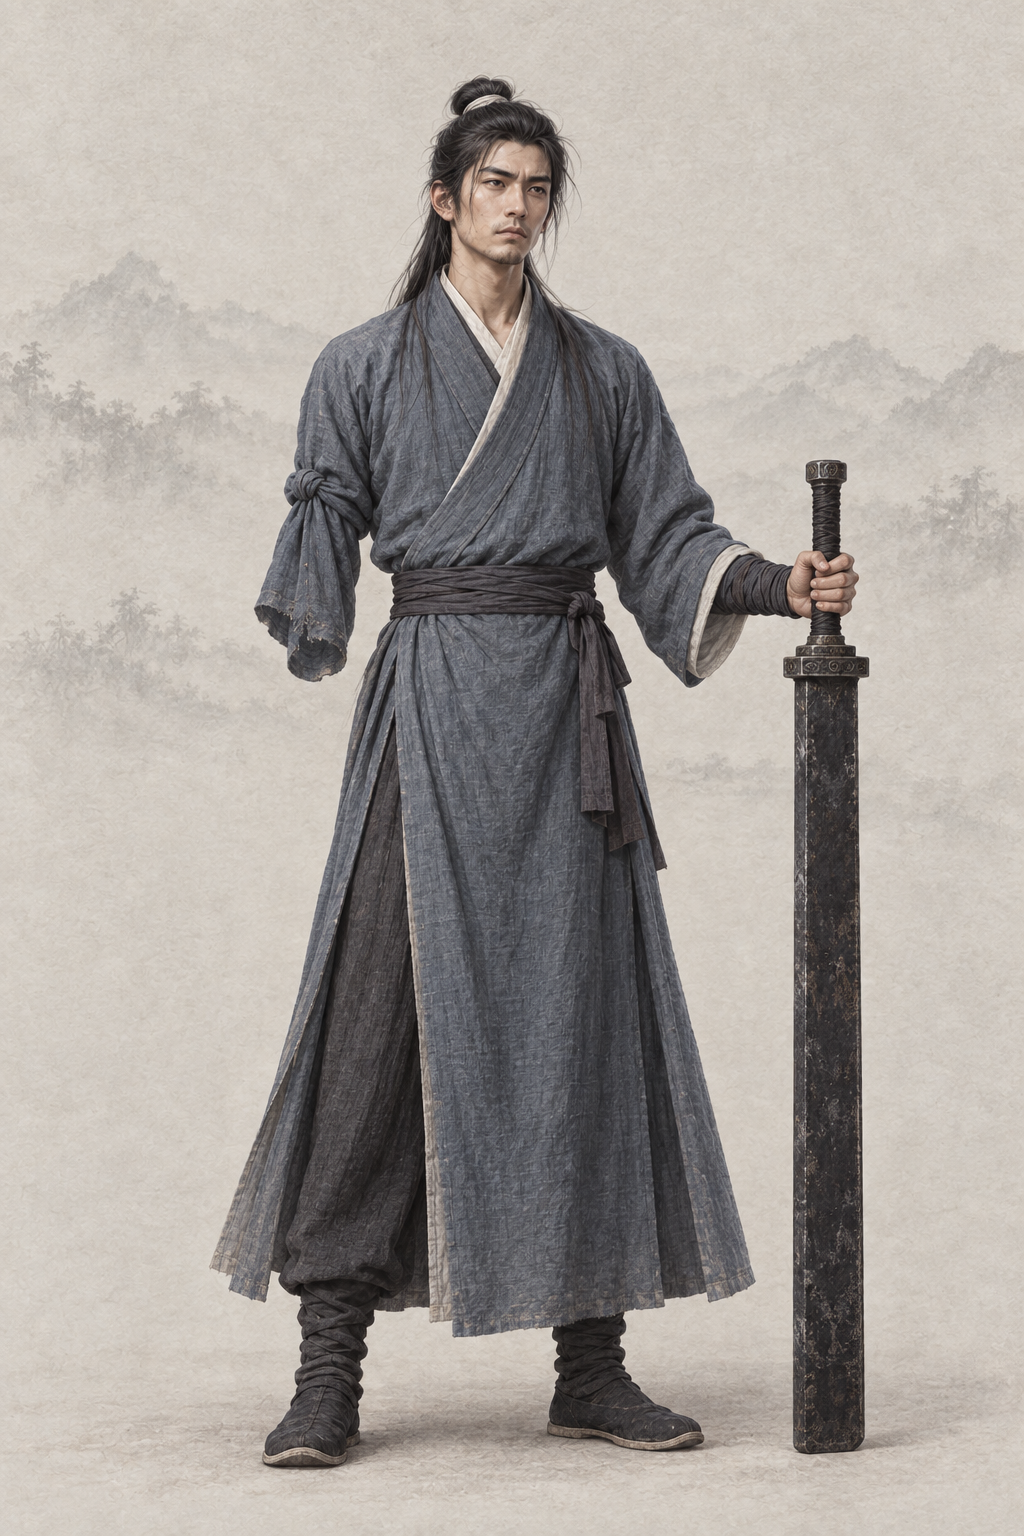
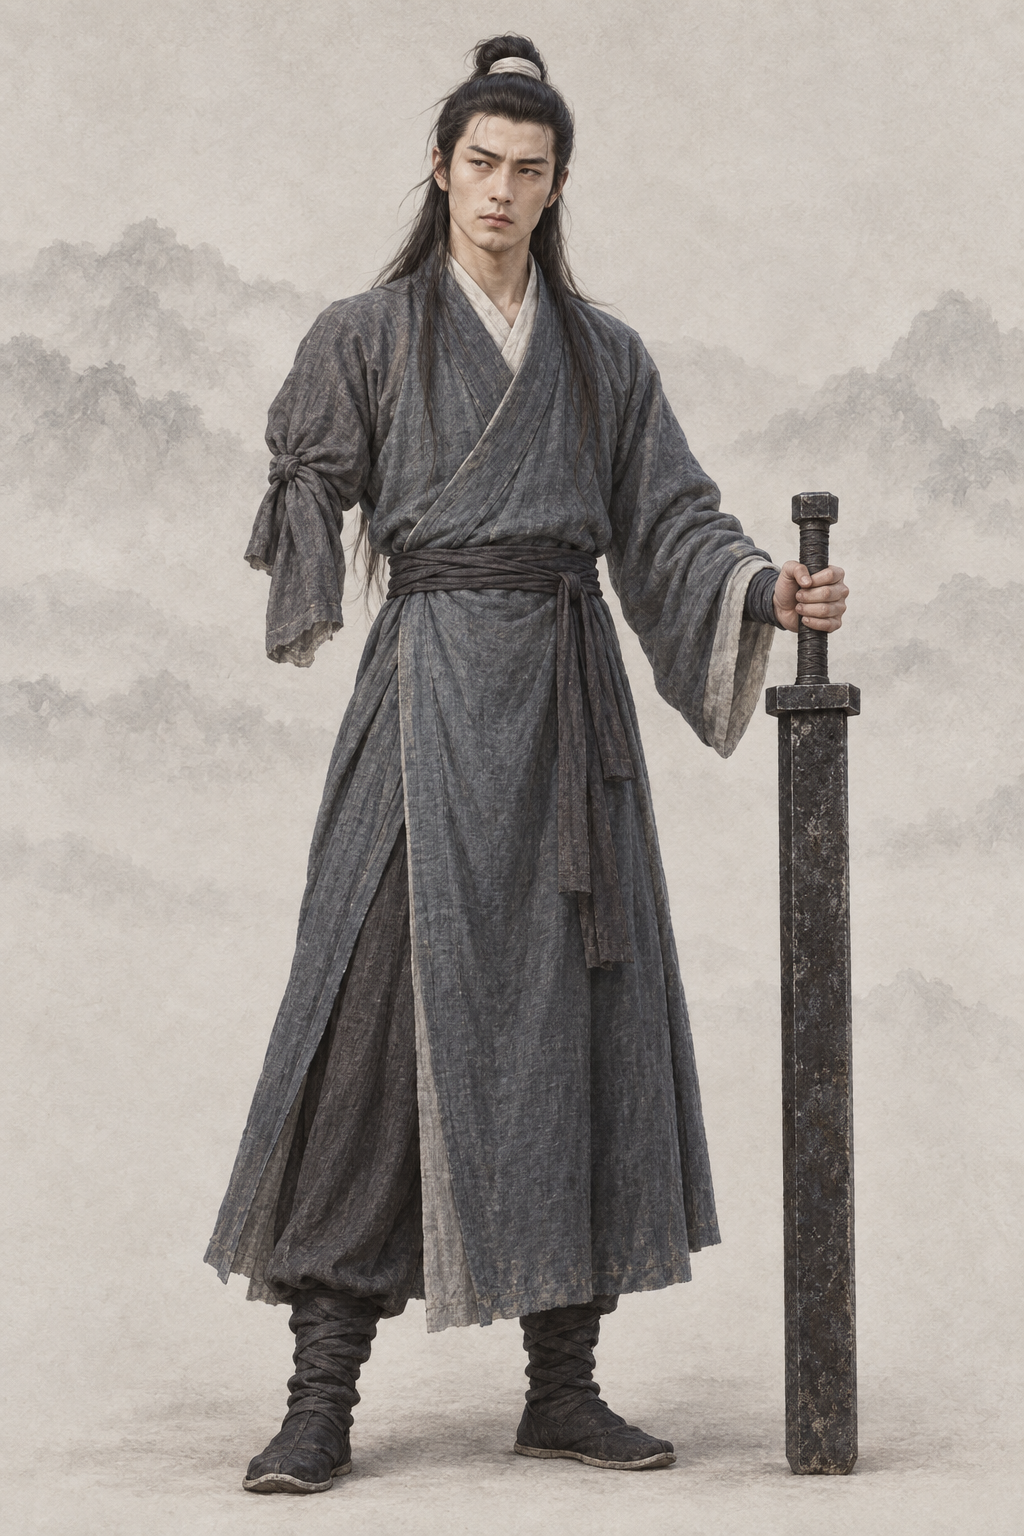
assets(character): por_npc_yangguo__ch03_youth_onearm_base 杨过（codex · AR-32 经典剧照 + 基线）
参考 1995 TVB《神雕侠侣》 剧照（yangguo_1995_caption_verified.jpg）与两张同性别基线重出；提示词写回、frontmatter 加 classic_ref。

diff --git a/assets/default/prompts/characters/ch03-shendiao/npc_yangguo.md b/assets/default/prompts/characters/ch03-shendiao/npc_yangguo.md
@@ -19,13 +19,39 @@ status: redo
 realism_revision: user_identity_pose_20261001
 redo_reason: "面容近乎复刻 1995 版演员（肖像风险），按原著“剑眉入鬓、凤眼生威、清癯俊秀、断右臂、玄铁重剑”用文字原创重做，连同五幅场景"
 reference_upload:
+- .agents/coord/imagegen-reference/identity-20261001/yangguo_1995_caption_verified.jpg
 - assets/default/baseline/character/male/ref_npc_linghuchong__ch05_base01.png
+- assets/default/baseline/character/male/ref_npc_xiaofeng__ch01_base01.png
 codex_prompt_rev: 2026-10-02
+classic_ref:
+  version: 1995 TVB《神雕侠侣》
+  stills:
+  - .agents/coord/imagegen-reference/identity-20261001/yangguo_1995_caption_verified.jpg
 ---
 
 # 杨过 · 人物写实修正
 
 ## Gemini 提示词
+
+> 2026-10-02 AR-32 重出（5 号出图员，codex exec · image_gen）：主要角色改为参考经典影视版剧照加项目基线生成。上传顺序：1995 TVB《神雕侠侣》 剧照 1 张（yangguo_1995_caption_verified.jpg），最后两张为同性别画风基线（缩小版 JPEG）。剧照只借造型、气质与面部特征，画面按项目画风重绘、不复制照片。上一版（AR-31 文字版）保留在下一节作历史。
+
+```text
+生成一张 2:3 竖幅全身人物立绘：单人、单一视角、完整全身——头顶、双手、双脚和手中器物的两端都在画面内，四周留出自然空白；人物站姿自然，身体基本朝向正面，头部端正（不歪头、不仰不俯），镜头平视。
+【画风】写实手绘古风人物插画，与本项目写实武侠角色立绘同一画风，像功力深厚的画师用细腻笔触画出的真实人物。手绘插画质感，不是 CG 渲染：不要过度光滑的皮肤、完美对称的五官、塑料高光、过度锐利的发丝；保留自然的笔触和细微不完美。皮肤有真实质感——细小毛孔、细纹、晒痕和自然的左右不对称，不磨皮、不油亮；头发是一缕缕自然的发丝和少量碎发；布料看得出经纬纹理、厚薄和自然垂坠的褶皱，带穿用过的轻微旧化，但完整不破烂；整体设色低饱和、沉稳；柔和的自然光从左上方照来，明暗过渡自然，不打舞台光、轮廓光或美颜柔光。不是照片，不是三维渲染，不是动漫或游戏 CG，也不是油画（没有厚涂笔触和画布纹理）。
+【背景】不透明的暖浅灰色纸底，只在远处有极淡的水墨远山和薄雾，大面积留白；人物与背景明暗分明、轮廓边缘干净完整（后续要自动抠图），水墨和纸纹只在背景里，不侵入人物和衣服；脚下只有很淡的一点接触阴影。
+【人物】杨过，《神雕侠侣》南宋的主角，杨康之子、小龙女之徒；被郭芙斩断右臂、得独孤求败玄铁重剑之后，十六年分离之前。孤傲不羁、深情重义。
+【年龄与体态】约二十三四岁的青年，身材高挑精瘦，肩背挺直。
+【经典造型】以九十年代中期经典港剧里那位俊朗孤傲的杨过为蓝本（见剧照）：清瘦俊朗的脸、浓黑剑眉、深邃的眼睛，孤傲中带着深情与落寞；黑发上半束成小髻、其余披在背后，几缕散发垂在额边；一身深灰青的旧布袍，右边衣袖空荡荡；左手拄着黝黑的玄铁重剑（剧照里双手举剑的姿势和双臂一概不取）。
+【面容】原著写他清癯俊秀、剑眉入鬓、凤眼生威，脸色苍白、颇见憔悴。具体为：清瘦俊秀的长脸、颧骨略高、两颊微陷，浓黑的剑眉斜飞入鬓，一双凤眼细长、眼神锐利而带傲气与落寞，鼻梁高挺，薄唇紧抿，脸色偏苍白、略显憔悴，下巴有短短的胡茬。清俊孤傲、剑眉星目的美男子。
+【发式】黑发上半部分束成小髻、用一根灰白布条扎住，其余长发披在背后，几缕散发垂在额边。
+【服饰】深灰青色交领右衽旧布袍（旧而整洁），深色布腰带，深色长裤、布靴。原著断的是右臂：他的右臂从上臂中段就没有了——右边衣袖从肩下开始就是空的，扁平、软塌塌地垂着，在上臂位置打了一个结，结下垂着一截空袖子；袖子里明显没有手臂、没有前臂、没有手（独臂必须一眼看清）。
+【道具】左手（仅存的手）握着一柄又宽又厚的黑色玄铁重剑——无锋无尖、像一块长铁，剑尖拄地，剑身完整入画。
+【姿态与神情】孤身而立，左手扶剑、空袖垂在右侧；神情冷傲而深情，目光看向远方。
+【不要】画面里不要任何文字、题款、印章、签名、水印、边框、分格或多视图；不要第二个人；不要幼态（童颜、娃娃脸、婴儿肥、儿童或少年身材、大头小身）；不要塑料感皮肤、磨皮美颜、网红脸（尖下巴大眼高鼻的模板脸）、过度对称、浓妆、偶像式打光、蜡像感；不要照片质感、三维渲染或动漫大眼；不要歪头、斜镜头；不要多指、缺指（设定的伤残除外）、手与器物粘连或悬空；汉式交领必须右衽（穿着者的左襟压在右襟上），不要左衽（设定为少数民族服制的除外），不要水平镜像；不要现代物品、发光特效、法阵或能量光。不要左臂断（原著是右臂）；不要两只手都在；不要右袖鼓起像藏着手臂、不要右袖垂到手腕处才打结；不要细长锋利的普通剑或剑光；不要神雕入画。
+【参考图】随提示词上传的参考图共 3 张，按顺序：第 1 张是这个角色经典影视造型的剧照：借鉴其发型、服饰、配色、标志道具、气质和面部特征，让人一眼认出是这个角色；但必须重新绘制成本项目的画风，不要照片质感，不要照搬剧照的构图、光影、背景和姿势，也不要做成照片修图；剧照与上文文字有出入时，以上文文字为准。最后两张是本项目的立绘画风基线：画风、用色、光线、质感和暖浅灰纸底加淡水墨的背景以它们为准——精细写实的数字手绘插画，不是油画，不要厚涂笔触和画布纹理；基线图里人物的长相、年龄、发型、服饰和姿势一律不取。
+```
+
+## AR-31 文字版 Gemini 提示词（2026-10-02 凌晨；AR-32 剧照版之前，历史，不再用于出图）
 
 > 2026-10-02 AR-31 改写（1 号出图员，codex exec · image_gen 出图）：重要人物借鉴经典影视造型，只写成文字——不写演员名、不上传剧照、原创面孔；主角和美人画得好看，去 AI 味，禁止幼态。出图时上传两张同性别基线立绘作画风参考（放在最后）。审核组原稿保留在下一节作历史。
 
